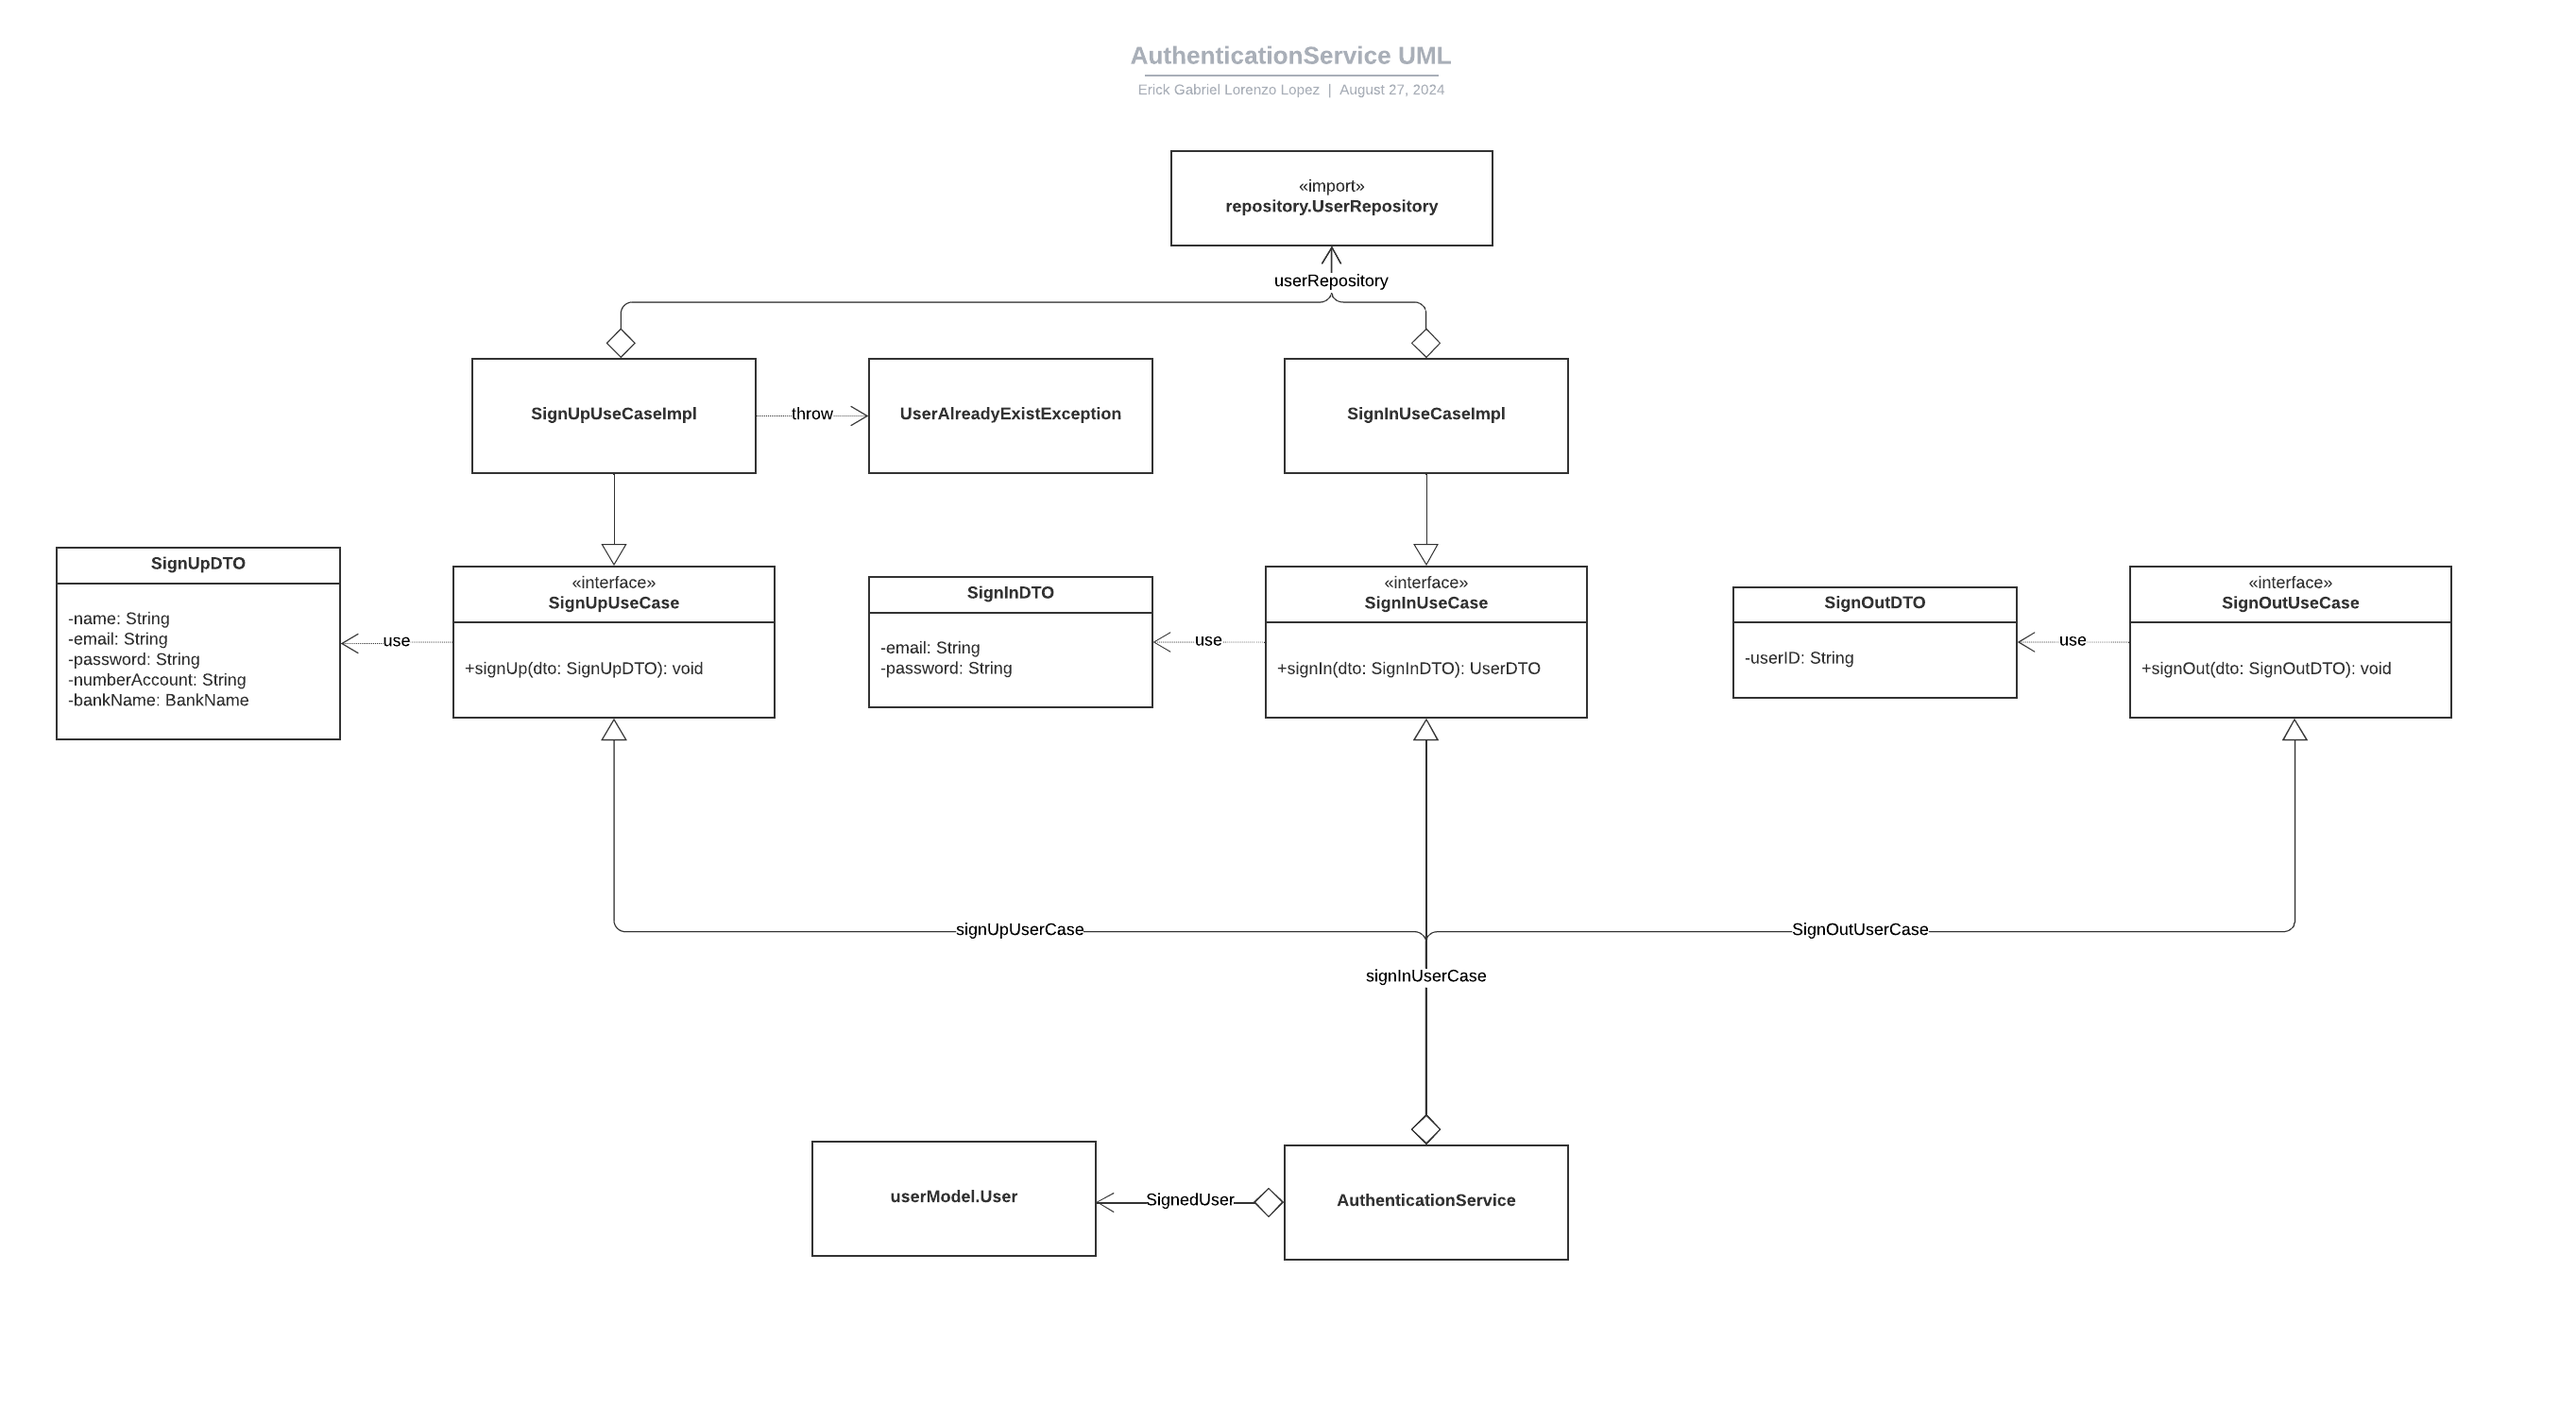
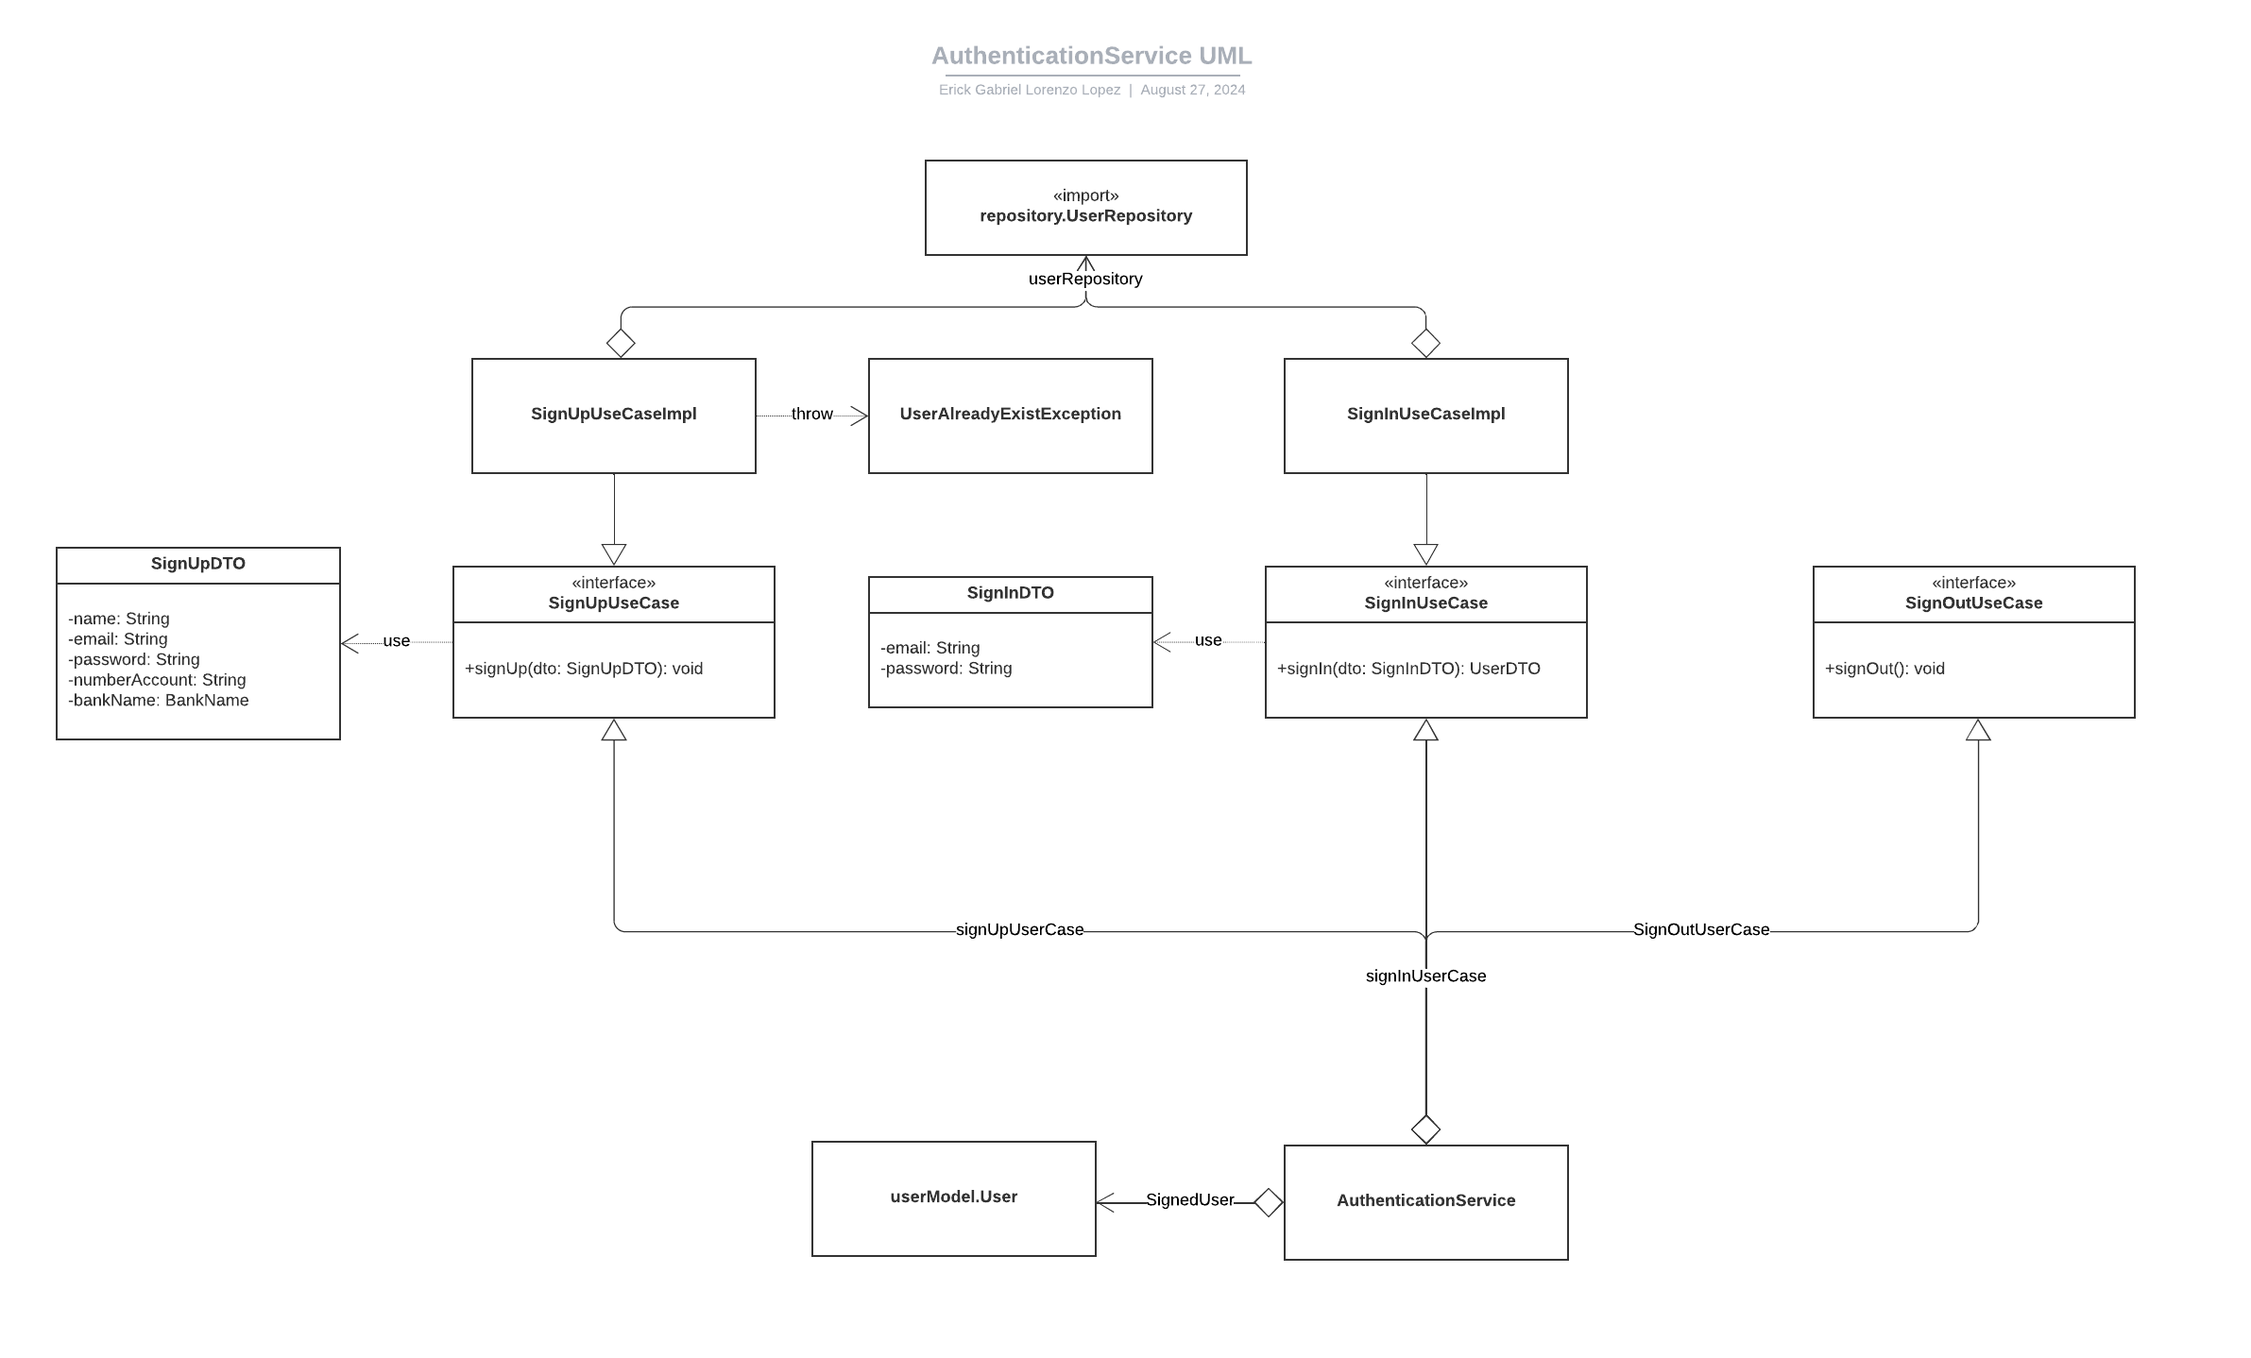
Added Auth Service and Refactor

diff --git a/criptoExchangeApplication/src/test/java/integrationTests/SignInTest.java b/criptoExchangeApplication/src/test/java/integrationTests/SignInTest.java
@@ -1,64 +1,50 @@
 package integrationTests;
 
+import com.globant.application.dto.SignInDTO;
 import com.globant.application.dto.SignUpDTO;
 import com.globant.application.repositories.BankAccountSerRepository;
 import com.globant.application.repositories.Repository;
 import com.globant.application.repositories.UserRepository;
 import com.globant.application.repositories.UserSerRepository;
+import com.globant.application.services.authentication.SignInUseCase;
+import com.globant.application.services.authentication.SignInUseCaseImpl;
 import com.globant.application.services.authentication.SignUpUseCase;
 import com.globant.application.services.authentication.SignUpUseCaseImpl;
-import com.globant.domain.crypto.WalletID;
-import com.globant.domain.crypto.WalletUUID;
 import com.globant.domain.factories.BankName;
-import com.globant.domain.factories.UserFactory;
 import com.globant.domain.user.BankAccount;
-import com.globant.domain.user.GmailAccount;
-import com.globant.domain.user.User;
-import com.globant.domain.user.UserAccount;
 
 /**
  *
  * @author erillope
  */
-public class SignUpTest{
-    private static void successSignUpTest() throws Exception{
+public class SignInTest {
+    private static void successSignInTest() throws Exception{
         try{
             UserRepository userRepository = UserSerRepository.getInstance();
             Repository<String, BankAccount> bankAccountRepository = BankAccountSerRepository.getInstance();
             SignUpUseCase signUpUseCase = new SignUpUseCaseImpl(userRepository, bankAccountRepository);
             SignUpDTO dto = new SignUpDTO("Erick", "erillope@gmail.com", "Erillope123", "895763089", BankName.PACIFICO);
             signUpUseCase.signUp(dto);
+            SignInUseCase signInUseCase = new SignInUseCaseImpl(userRepository);
+            SignInDTO inDto = new SignInDTO("erillope@gmail.com", "Erillope123");
+            signInUseCase.signIn(inDto);
+            
             System.out.println("verifyValidAccountTest Success");
         }
         catch(Exception e){System.out.println("verifyValidAccountTest Failed");}
     }
     
-    private static void failedSignUpTest() throws Exception{
+    private static void incorrectPasswordTest() throws Exception{
         try{
             UserRepository userRepository = UserSerRepository.getInstance();
             Repository<String, BankAccount> bankAccountRepository = BankAccountSerRepository.getInstance();
             SignUpUseCase signUpUseCase = new SignUpUseCaseImpl(userRepository, bankAccountRepository);
-            SignUpDTO dto = new SignUpDTO("A", "erillope@gmail.com", "Erillope123", "895763089", BankName.PACIFICO);
+            SignUpDTO dto = new SignUpDTO("Erick", "erillope@gmail.com", "Erillope123", "895763089", BankName.PACIFICO);
             signUpUseCase.signUp(dto);
-            System.out.println("verifyValidAccountTest Failed");
-        }
-        catch(Exception e){System.out.println("verifyValidAccountTest Success");}
-    }
-    
-    private static void alreadyExistUserTest() throws Exception{
-        try{
-            UserRepository userRepository = UserSerRepository.getInstance();
-            Repository<String, BankAccount> bankAccountRepository = BankAccountSerRepository.getInstance();
-            UserFactory userFactory = new UserFactory();
-            WalletID walletID = new WalletUUID();
-            UserAccount account = new GmailAccount("Erick", "erillope@gmail.com", "Erillope123");
-            User user = userFactory.createUser("457698756", walletID, account);
-            userRepository.save(user.getUserID(), user);
+            SignInUseCase signInUseCase = new SignInUseCaseImpl(userRepository);
+            SignInDTO inDto = new SignInDTO("erillope@gmail.com", "Erillope1234");
+            signInUseCase.signIn(inDto);
             
-            
-            SignUpUseCase signUpUseCase = new SignUpUseCaseImpl(userRepository, bankAccountRepository);
-            SignUpDTO dto = new SignUpDTO("Erick", "erillope@gmail.com", "Erillope123", "457698756", BankName.PACIFICO);
-            signUpUseCase.signUp(dto);
             System.out.println("verifyValidAccountTest Failed");
         }
         catch(Exception e){System.out.println("verifyValidAccountTest Success");}

diff --git a/criptoExchangeApplication/src/main/java/com/globant/application/services/authentication/AuthenticationService.java b/criptoExchangeApplication/src/main/java/com/globant/application/services/authentication/AuthenticationService.java
@@ -1,7 +1,6 @@
 package com.globant.application.services.authentication;
 
 import com.globant.application.dto.SignInDTO;
-import com.globant.application.dto.SignOutDTO;
 import com.globant.application.dto.SignUpDTO;
 import com.globant.application.repositories.UserRepository;
 import com.globant.domain.exceptions.DomainException;
@@ -15,14 +14,11 @@ public class AuthenticationService implements SignUpUseCase, SignInUseCase, Sign
     private User signedUser;
     private final SignUpUseCase signUpUserCase;
     private final SignInUseCase signInUserCase;
-    private final SignOutUseCase signOutUserCase;
     private final UserRepository userRepository;
 
-    public AuthenticationService(SignUpUseCase signUpUserCase, SignInUseCase signInUserCase, 
-            SignOutUseCase signOutUserCase, UserRepository userRepository) {
+    public AuthenticationService(SignUpUseCase signUpUserCase, SignInUseCase signInUserCase, UserRepository userRepository) {
         this.signUpUserCase = signUpUserCase;
         this.signInUserCase = signInUserCase;
-        this.signOutUserCase = signOutUserCase;
         this.userRepository = userRepository;
     }
     
@@ -31,17 +27,16 @@ public class AuthenticationService implements SignUpUseCase, SignInUseCase, Sign
     @Override
     public void signUp(SignUpDTO dto) throws DomainException{
         this.signUpUserCase.signUp(dto);
+    }
+
+    @Override
+    public void signIn(SignInDTO dto) throws DomainException {
+        this.signInUserCase.signIn(dto);
         signedUser = userRepository.getByEmail(dto.getEmail());
     }
 
     @Override
-    public void signIn(SignInDTO dto) {
-        this.signInUserCase.signIn(dto);
-    }
-
-    @Override
-    public void signOut(SignOutDTO dto) {
-        this.signOutUserCase.signOut(dto);
+    public void signOut() {
         signedUser = null;
     }
 }

diff --git a/criptoExchangeApplication/src/main/java/com/globant/application/services/authentication/SignInUseCaseImpl.java b/criptoExchangeApplication/src/main/java/com/globant/application/services/authentication/SignInUseCaseImpl.java
@@ -1,0 +1,31 @@
+package com.globant.application.services.authentication;
+
+import com.globant.application.dto.SignInDTO;
+import com.globant.application.repositories.UserRepository;
+import com.globant.domain.exceptions.DomainException;
+import com.globant.domain.exceptions.InvalidPasswordException;
+import com.globant.domain.user.User;
+
+/**
+ *
+ * @author erillope
+ */
+public class SignInUseCaseImpl implements SignInUseCase{
+    private final UserRepository userRepository;
+
+    public SignInUseCaseImpl(UserRepository userRepository) {
+        this.userRepository = userRepository;
+    }
+    
+    @Override
+    public void signIn(SignInDTO dto) throws DomainException{
+        User user = userRepository.getByEmail(dto.getEmail());
+        validatePassword(user.getUserAccount().getPassword(), dto.getPassword());
+    }
+    
+    private void validatePassword(String userPassword, String password) throws InvalidPasswordException{
+        if (!password.equals(userPassword))
+        {throw InvalidPasswordException.incorrectPassword();}
+    }
+    
+}

diff --git a/criptoExchangeApplication/src/main/java/com/globant/application/services/authentication/SignUpUseCaseImpl.java b/criptoExchangeApplication/src/main/java/com/globant/application/services/authentication/SignUpUseCaseImpl.java
@@ -5,6 +5,7 @@ import com.globant.application.repositories.Repository;
 import com.globant.application.repositories.UserRepository;
 import com.globant.domain.crypto.Wallet;
 import com.globant.domain.exceptions.DomainException;
+import com.globant.domain.exceptions.UserAlreadyExistException;
 import com.globant.domain.factories.BankAccountFactory;
 import com.globant.domain.factories.UserAccountFactory;
 import com.globant.domain.factories.UserFactory;
@@ -44,6 +45,8 @@ public class SignUpUseCaseImpl implements SignUpUseCase{
         UserAccount account = userAccountFactory.createAccount(dto.getName(), dto.getEmail(), dto.getPassword());
         Wallet wallet = walletFactory.createWallet();
         User user = userFactory.createUser(dto.getNumberAccount(), wallet.getID(), account);
+        if (userRepository.containEmail(user.getUserAccount().getEmail()))
+        {throw UserAlreadyExistException.alreadyExist();}
         userRepository.save(user.getUserID(), user);
     }
     

diff --git a/criptoExchangeApplication/src/main/java/com/globant/domain/exceptions/InvalidPasswordException.java b/criptoExchangeApplication/src/main/java/com/globant/domain/exceptions/InvalidPasswordException.java
@@ -10,4 +10,6 @@ public class InvalidPasswordException extends InvalidUserAccountException{
     }
     
     public static InvalidPasswordException invalidException(){return new InvalidPasswordException("INVALID PASSWORD");}
+    
+    public static InvalidPasswordException incorrectPassword(){return new InvalidPasswordException("INCORRECT PASSWORD");}
 }

diff --git a/criptoExchangeApplication/src/main/java/com/globant/application/services/authentication/SignInUseCase.java b/criptoExchangeApplication/src/main/java/com/globant/application/services/authentication/SignInUseCase.java
@@ -1,11 +1,12 @@
 package com.globant.application.services.authentication;
 
 import com.globant.application.dto.SignInDTO;
+import com.globant.domain.exceptions.DomainException;
 
 /**
  *
  * @author erillope
  */
 public interface SignInUseCase {
-    public void signIn(SignInDTO dto);
+    public void signIn(SignInDTO dto) throws DomainException;
 }

diff --git a/criptoExchangeApplication/src/main/java/com/globant/domain/exceptions/UserAlreadyExistException.java b/criptoExchangeApplication/src/main/java/com/globant/domain/exceptions/UserAlreadyExistException.java
@@ -8,4 +8,6 @@ public class UserAlreadyExistException extends DomainException{
     public UserAlreadyExistException(String msg) {
         super(msg);
     }
+    
+    public static UserAlreadyExistException alreadyExist(){return new UserAlreadyExistException("THIS USER ALREADY EXIST");}
 }

diff --git a/criptoExchangeApplication/src/main/java/com/globant/application/services/authentication/SignOutUseCase.java b/criptoExchangeApplication/src/main/java/com/globant/application/services/authentication/SignOutUseCase.java
@@ -1,11 +1,9 @@
 package com.globant.application.services.authentication;
 
-import com.globant.application.dto.SignOutDTO;
-
 /**
  *
  * @author erillope
  */
 public interface SignOutUseCase {
-    public void signOut(SignOutDTO dto);
+    public void signOut();
 }
